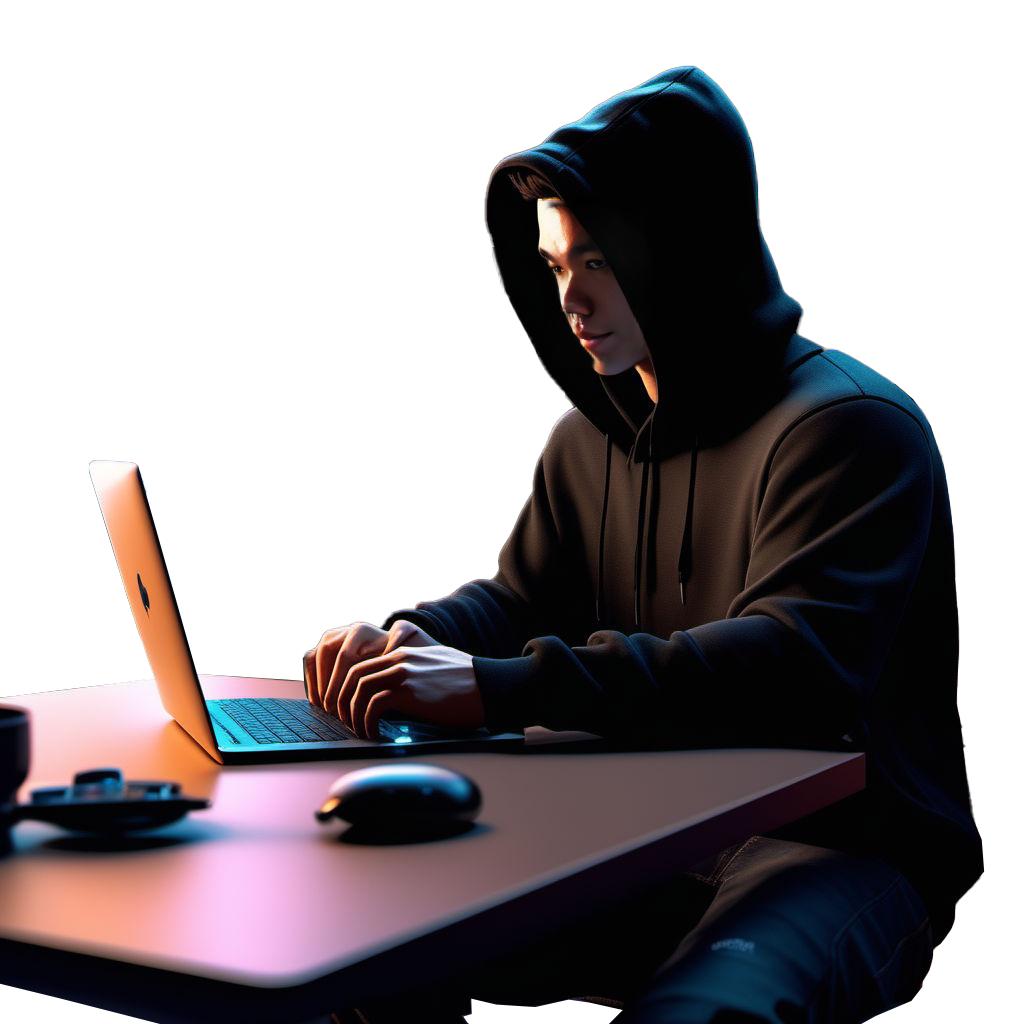
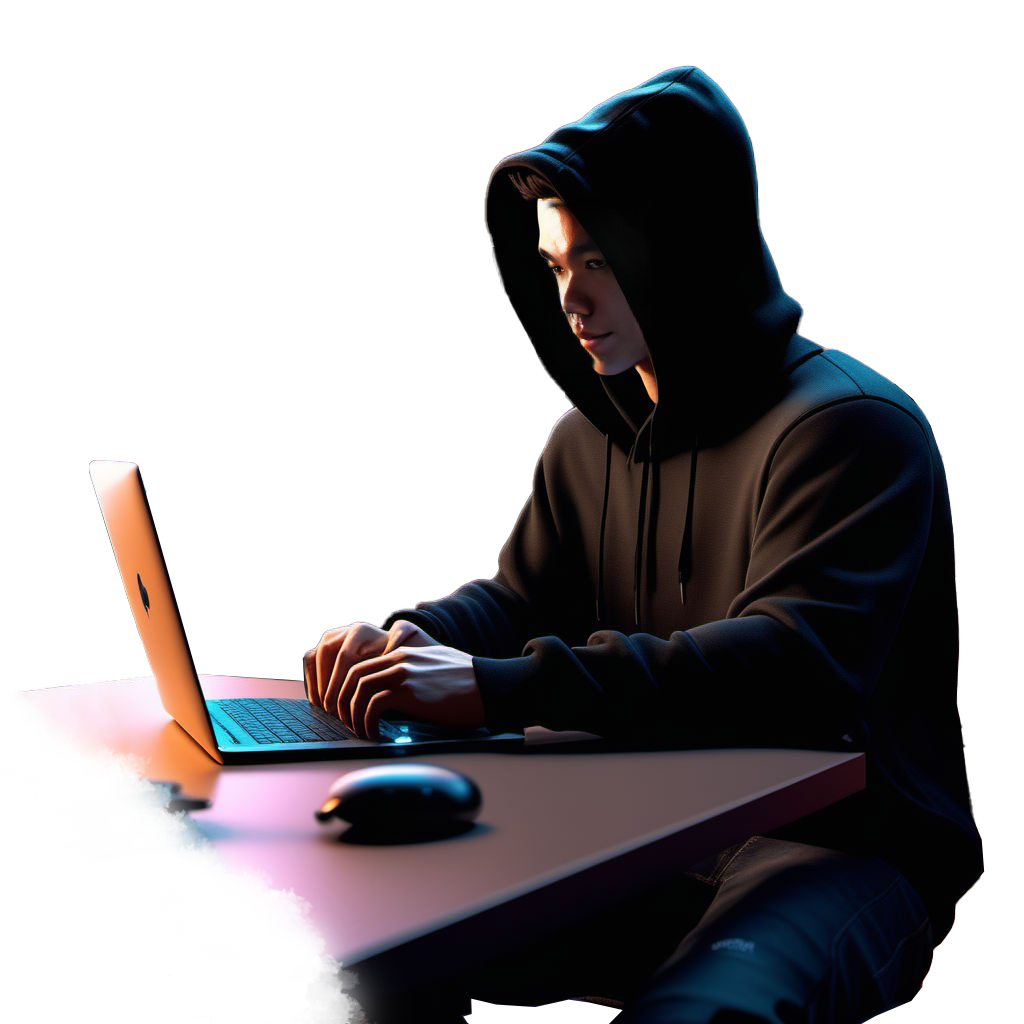
fixed incorrect display on smaller devices

Changed region(s): [[0.0, 0.6875, 0.375, 1.0]]

diff --git a/my-react-ai-portfolio/src/styles/avatar.css b/my-react-ai-portfolio/src/styles/avatar.css
@@ -1,7 +1,7 @@
 .avatar {
     position: fixed;
     overflow: hidden;
-    z-index: -2;
+    z-index: -4;
 }
 
 .avatar.about {
@@ -9,6 +9,7 @@
     bottom: -8vh;
     left: 50%;
     transform: translateX(-60%);
+    z-index: -4;
 }
 
 .avatar.skills {
@@ -19,19 +20,60 @@
     z-index: -4;
 }
 
-.shadow-overlay-skills {
+.shadow-overlay-skills, .shadow-overlay-about {
     height: 100vh;
     width: 100vh;
     display: block;
     position: fixed;
     background: linear-gradient(90deg, rgba(0, 0, 0, 0.25), rgba(255, 255, 255, 0));
-    z-index: -4;
+    z-index: -3;
+}
+
+@media (max-width: 1440px) {
+    .avatar.about {
+        height: 70vh;
+        bottom: -10vh;
+        transform: translateX(-65%);
+    }
 }
 
 @media (max-width: 1024px) {
+    .avatar.about {
+        height: 55vh;
+        bottom: 0vh;
+    }
+
     .avatar.skills {
-        z-index: -4;
-        height: 95vh;
-        bottom: -15vh;
+        height: 70vh;
+        bottom: -10vh;
+        transform: translateX(-60%) scaleX(-1);
+    }
+
+    
+    .shadow-overlay-skills, .shadow-overlay-about {
+        top: 65vh;
+        left: -10vh;
+        height: 40vh;
+        width: 150vw;
+        background: linear-gradient(rgba(255, 255, 255, 0), rgba(0, 0, 0, 1) 80%);
+        z-index: -3;
+    }
+}
+
+@media (max-width: 600px) {
+    .avatar.about {
+        height: 60vh;
+        bottom: -10vh;
+        transform: translateX(-58%);
+    }
+
+    .avatar.skills {
+        height: 60vh;
+        transform: translateX(-40%) scaleX(-1);
+        bottom: -12vh;
+    }
+
+    .shadow-overlay-skills, .shadow-overlay-about {
+        background: linear-gradient(rgba(255, 255, 255, 0), rgba(0, 0, 0, 1) 70%);
     }
 }

diff --git a/my-react-ai-portfolio/src/styles/aboutMenu.css b/my-react-ai-portfolio/src/styles/aboutMenu.css
@@ -1,5 +1,5 @@
 .menu {
-    width: 19rem;
+    width: 20rem;
     position: fixed;
     display: flex;
     flex-direction: column;
@@ -22,7 +22,7 @@
 }
 
 .item.active .title {
-    font-size: 1.5rem;
+    font-size: 1.7rem;
 }
 
 .sub-container {
@@ -35,7 +35,8 @@
     cursor: pointer;
 }
 
-.item.active, .item.active:hover {
+.item.active,
+.item.active:hover {
     background: linear-gradient(90deg, var(--transparent), var(--blue) 70%);
     border-radius: var(--radius-right);
     cursor: default;
@@ -53,6 +54,7 @@
 .sub-container-2:not(.active-subheading) h3,
 .sub-container-3:not(.active-subheading) h3 {
     opacity: 0.7;
+    margin: 0;
 }
 
 .p-container {
@@ -77,12 +79,55 @@
     height: 3rem;
 }
 
-.sub-container-1 h3, .sub-container-2, .sub-container-3 {
+.sub-container-1 h3,
+.sub-container-2,
+.sub-container-3 {
     position: relative;
     margin: 0.2rem 0;
     padding: 0.5rem 0 0.5rem 1rem;
 }
 
-@media (max-width: 700px) {
+@media (max-width: 1440px) {
+    .sub-container {
+        width: 15rem;
+    }
+}
+
+@media (max-width: 1024px) {
+    .sub-container {
+        width: 20rem;
+        top: 20%;
+        right: 10vw;
+        cursor: pointer;
+    }
+
+    .item.active .title {
+        font-size: 1.2rem;
+    }
+
+}
+
+@media (max-width: 600px) {
+    .sub-container {
+        width: 16rem;
+        top: 22%;
+        left: 50%;
+        transform: translateX(-50%);
+    }
+
+    .icon-title-container,
+    .icon {
+        display: none;
+    }
+
+    .sub-container h1 {
+        font-size: 2rem;
+    }
+
+    h2,
+    h3,
+    p {
+        font-size: 0.5rem;
+    }
 
 }

diff --git a/my-react-ai-portfolio/src/styles/skillsMenu.css b/my-react-ai-portfolio/src/styles/skillsMenu.css
@@ -92,3 +92,67 @@
     flex-direction: column;
     gap: 0.4rem;
 }
+
+@media (max-width: 1440px) {
+    .skill-menu {
+        right: 10vw;
+    }
+    .menu {
+        width: 15rem;
+        top: 50%;
+        transform: translateY(-90%);
+        left: 5vw;
+    }
+}
+
+@media (max-width: 1024px) {
+    .menu {
+        width: 18rem;
+        top: 25%;
+        transform: translateY(-50%);
+    }
+
+}
+
+@media (max-width: 600px) {
+    .menu {
+        left: 50%;
+        transform: translateX(-40%);
+        top: 12%;
+    }
+    
+    .menu .item {
+        height: 2rem;
+    }
+    
+    .menu .title {
+        font-size: 0.6rem;
+    }
+
+    .skill-menu {
+        top: 15%;
+    }
+
+    .skill-item {
+        height: 3rem;
+        width: 40%;
+    }
+
+    .skill-title {
+        font-size: 0.7rem;
+        padding-right: 4.5rem;
+    }
+
+    .skill-item.activeSkill .skill-title {
+        font-size: 1rem;
+    }
+
+    .skill-icon {
+        width: 3rem;
+        height: 3rem;
+        position: absolute;
+        top: 2rem;
+        left: 12rem;
+    }
+
+}

diff --git a/my-react-ai-portfolio/src/styles/stats.css b/my-react-ai-portfolio/src/styles/stats.css
@@ -47,8 +47,6 @@ h2 {
 
 @media (max-width: 1024px) {
     #stats {
-        margin-left: 50%;
-        transform: translateX(-50%);
         width: 8rem;
         top: 2rem;
     }
@@ -59,5 +57,20 @@ h2 {
 
     h2, h3, p {
         font-size: 0.75rem;
+    }
+}
+
+@media (max-width: 600px) {
+    #stats {
+        width: 8rem;
+        top: 1.5rem;
+    }
+
+    h1 {
+        font-size: 1rem;
+    }
+
+    h2, h3, p {
+        font-size: 0.7rem;
     }
 }

diff --git a/my-react-ai-portfolio/src/styles/projectsMenu.css b/my-react-ai-portfolio/src/styles/projectsMenu.css
@@ -119,7 +119,7 @@
     }
 }
 
-@media (max-width: 768px) {
+@media (max-width: 600px) {
     .project-menu {
         width: 24rem;
         top: 15%;
@@ -135,8 +135,8 @@
         font-size: 0.8rem;
     }
     
-    .title {
-        font-size: 0.5rem;
+    .project-item:not(activeProject) .title {
+        font-size: 0.6rem;
     }
 
     .project-sub-container {

diff --git a/my-react-ai-portfolio/src/styles/nav.css b/my-react-ai-portfolio/src/styles/nav.css
@@ -6,6 +6,7 @@
     gap: 2rem;
     left: 50%;
     transition: var(--transition);
+    z-index: 0;
 }
 
 .nav-about {
@@ -69,5 +70,16 @@ a {
 
     .nav-link img {
         width: 2rem;
+    }
+}
+
+@media (max-width: 1024px) {
+
+    .nav-link {
+        width: 1rem;
+    }
+
+    .nav-link img {
+        width: 1.5rem;
     }
 }
